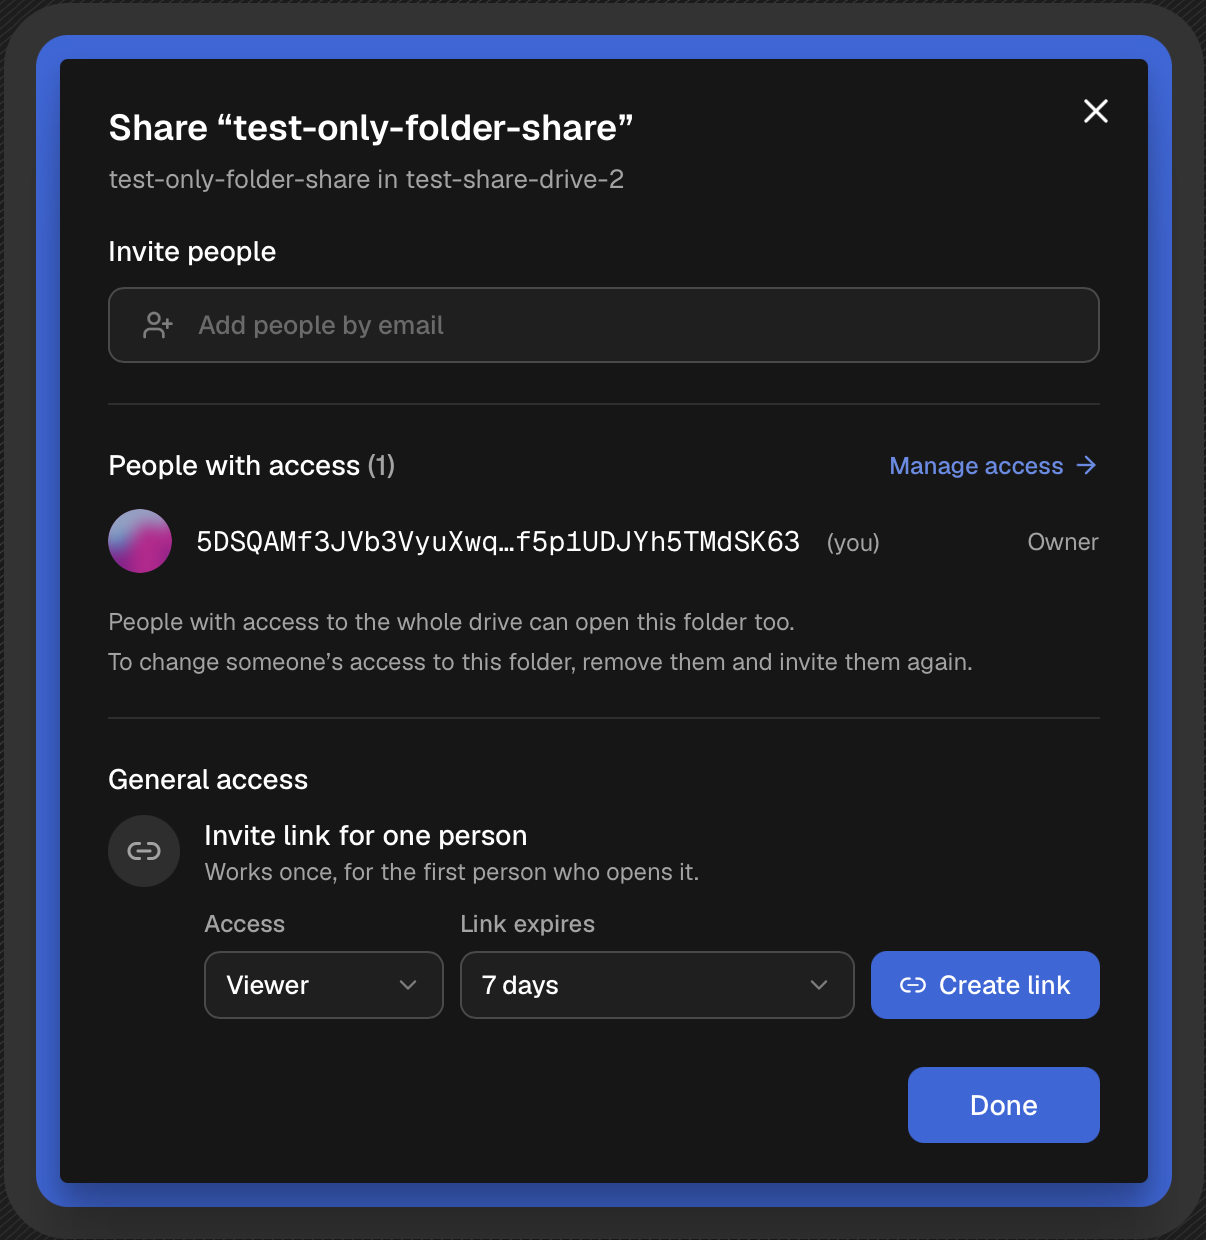
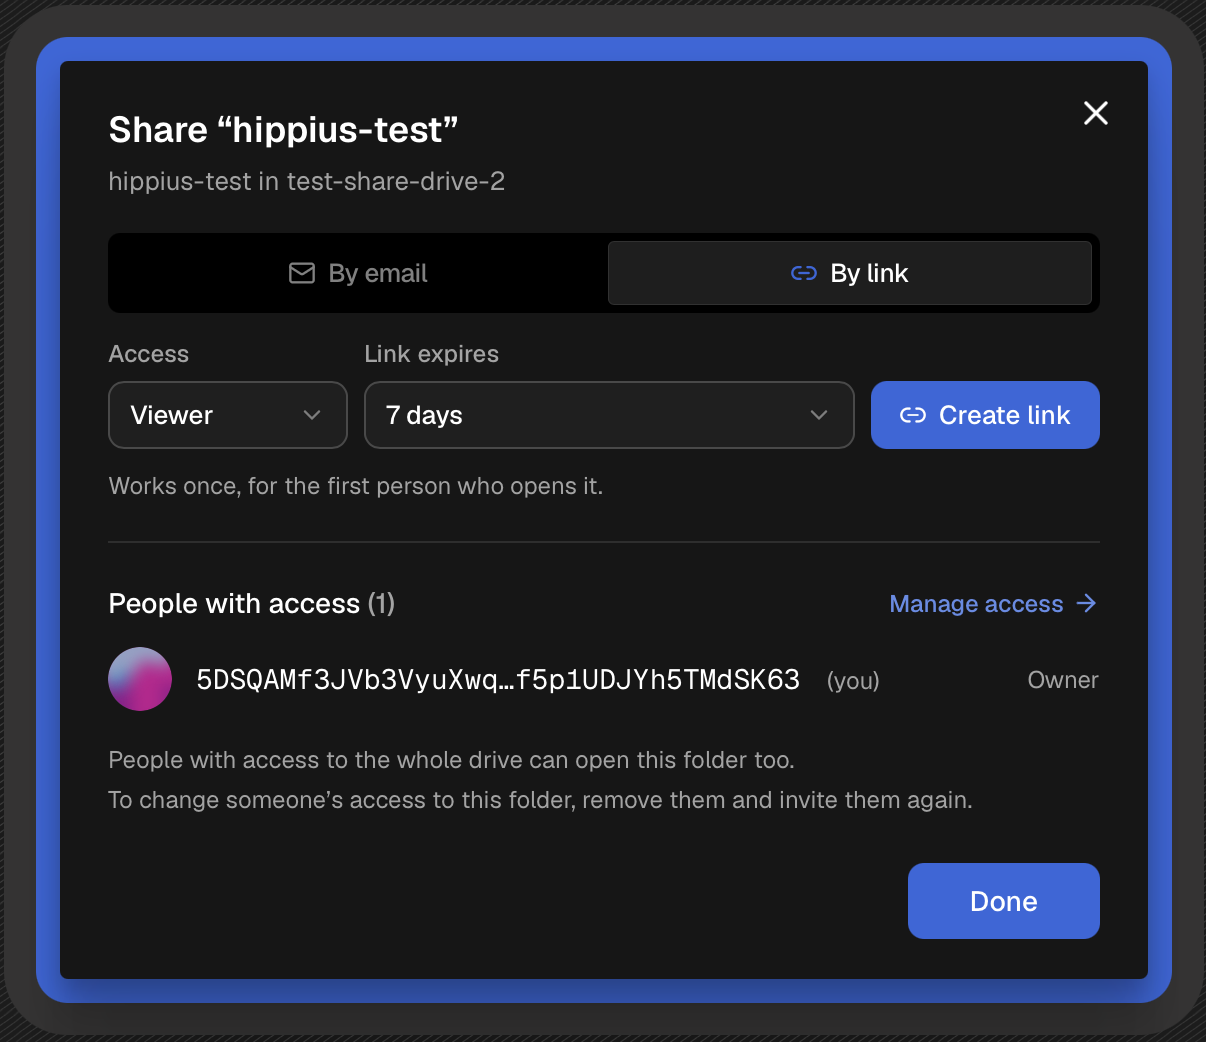
docs(desktop): current screenshots for shared drives, the Drive page and Billing
Retakes the Share dialog, Share folder dialog, Shared with Me, the Drive
page, a folder from another computer and Billing from the 0.6.5 build,
in light and dark. Adds the Share a drive picker, the By link tab after
creating a link, and the empty Shared with Me section.

diff --git a/docs/use/desktop/shared-drives.md b/docs/use/desktop/shared-drives.md
@@ -47,7 +47,7 @@ A single folder can be shared as **Viewer** or **Editor**. Nobody manages a fold
 
 You can also press <BgStyledText>Share a drive</BgStyledText> under **Shared with Me** on the Drive page, pick one of your drives and press <BgStyledText>Continue</BgStyledText>. The list tells you which of your drives are already shared, and with how many people. It opens the same Share dialog.
 
-{/* Screenshot to add: static/img/desktop/shared-drives/share-a-drive-picker.png and share-a-drive-picker-dark.png, the Share a drive picker with three or four drives, one selected. */}
+<Screenshot src="/img/desktop/shared-drives/share-a-drive-picker.png" alt="The Share a drive picker, choosing which drive to share" dark raw />
 
 The Share dialog works the same as in the console. At the top are two tabs. **By email** sends someone their own invite. **By link** creates an invite link. The app remembers which tab you used last. Below them, **People with access** lists everyone who can get in, and is where you change a role or remove someone.
 
@@ -70,6 +70,8 @@ To add a **Manager**, invite them as an Editor, then change their role once they
 ### Sharing with an invite link
 
 On **By link**, pick the role the link gives and how long it lasts, then press <BgStyledText>Create link</BgStyledText>. Press <BgStyledText>Copy</BgStyledText> and send the link yourself.
+
+<Screenshot src="/img/desktop/shared-drives/share-dialog-link.png" alt="An invite link created on the By link tab" dark raw />
 
 | Link | Who it lets in | How long it lasts |
 |---|---|---|
@@ -152,7 +154,9 @@ Drives you've joined are listed under **Shared with Me**, below your own drives 
 
 <Screenshot src="/img/desktop/shared-drives/shared-with-me.png" alt="Shared with Me in the desktop app" dark raw />
 
-{/* Screenshot to add: static/img/desktop/shared-drives/shared-with-me-empty.png and shared-with-me-empty-dark.png, the Drive page's Shared with Me section before anything is shared ("A place for teamwork" with Share a drive). */}
+Before anything has been shared with you, the section looks like this:
+
+<Screenshot src="/img/desktop/shared-drives/shared-with-me-empty.png" alt="Shared with Me before anything is shared, with Share a drive" dark raw />
 
 Each row shows the drive's name, your role, who shared it, how many people are in it and how big it is. If you're a Manager, the row also has its own <BgStyledText>Manage access</BgStyledText> button. From there you can:
 
